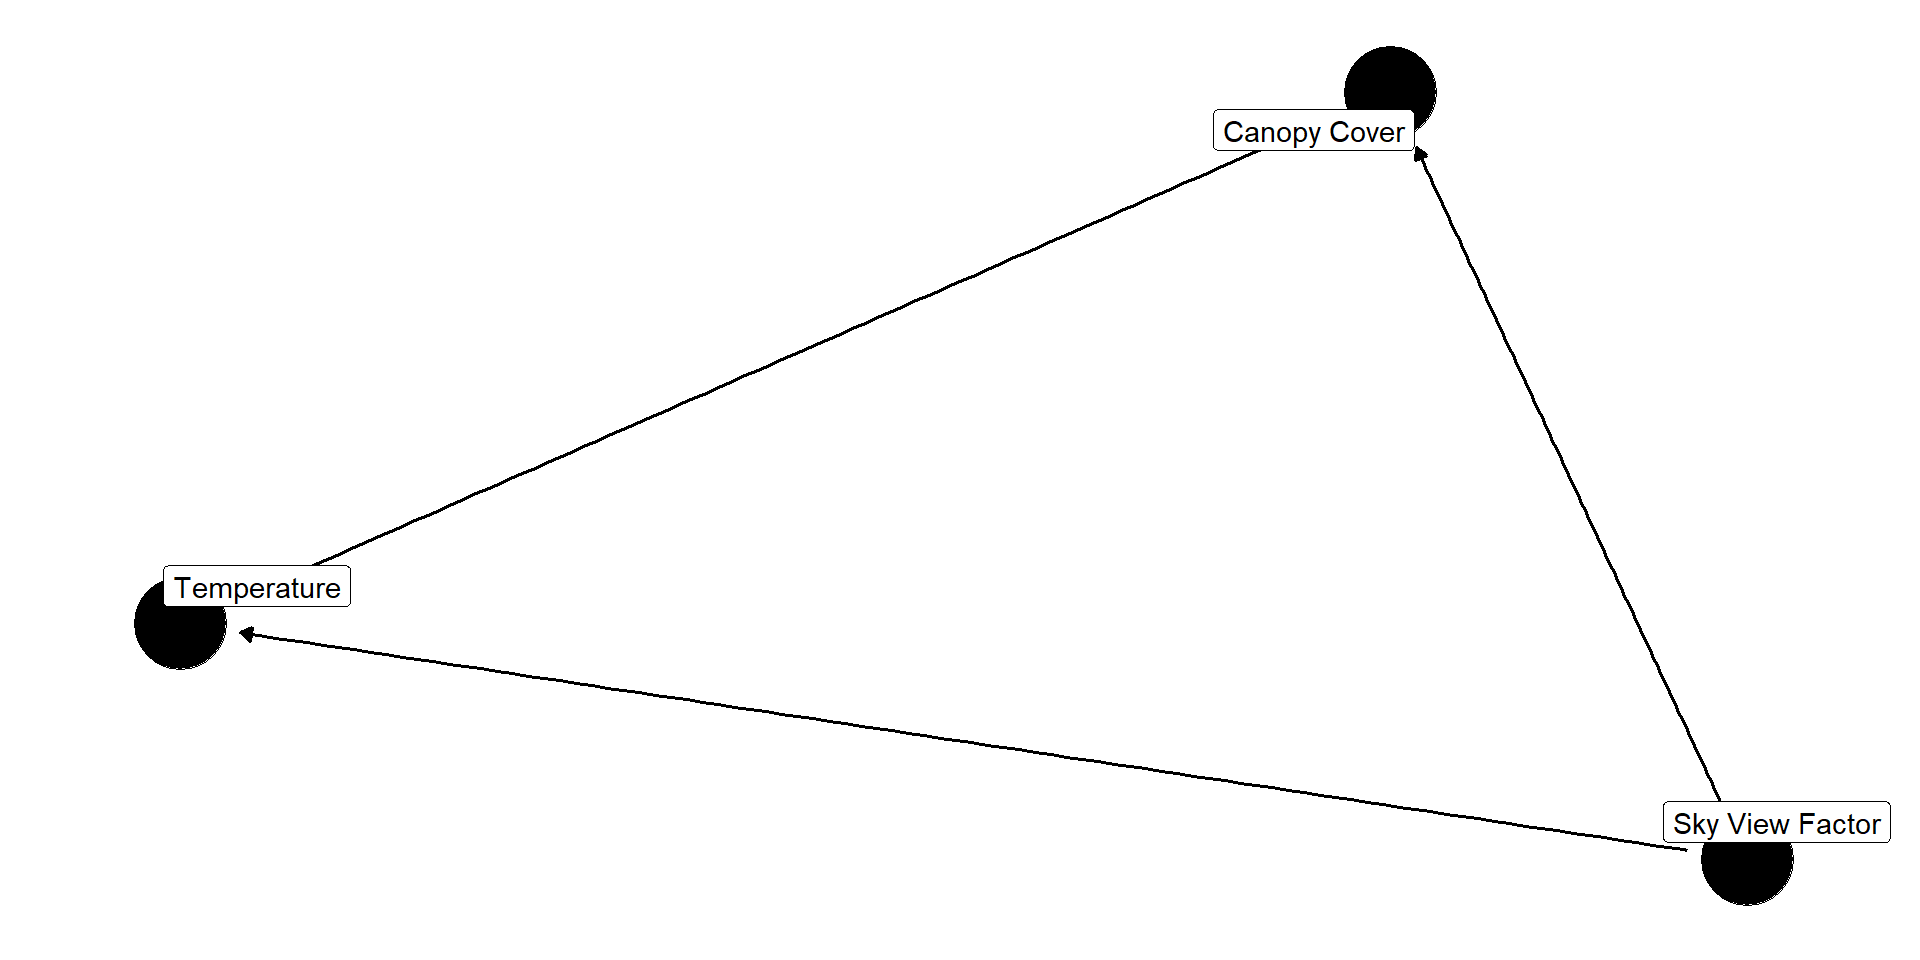
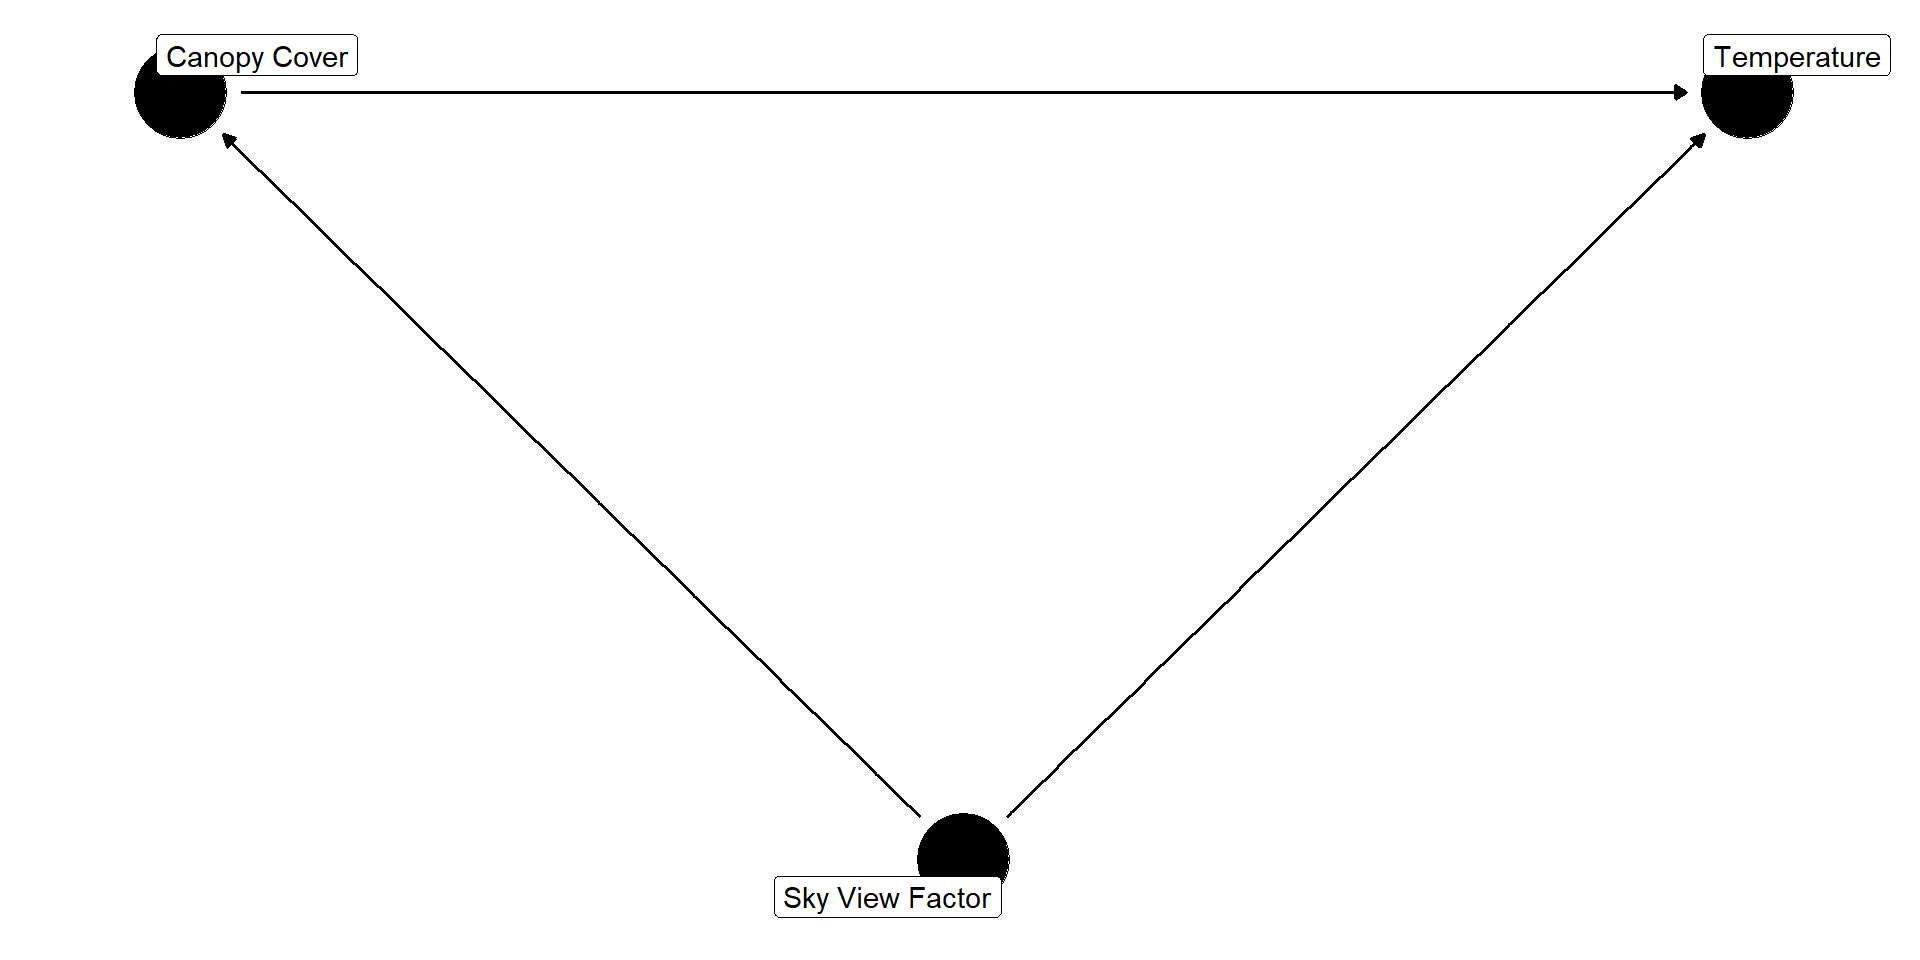
deploy: a4d5eee5e832c82f24a0478a4f8dce21d9ddd836

diff --git a/docs/index.html b/docs/index.html
@@ -607,11 +607,13 @@
 <span id="cb1-8"><a href="#cb1-8"></a>    <span class="st">"canopy"</span> <span class="ot">=</span> <span class="st">"Canopy Cover"</span>,</span>
 <span id="cb1-9"><a href="#cb1-9"></a>    <span class="st">"SVF"</span> <span class="ot">=</span> <span class="st">"Sky View Factor"</span></span>
 <span id="cb1-10"><a href="#cb1-10"></a>  ),</span>
-<span id="cb1-11"><a href="#cb1-11"></a>  <span class="at">exposure =</span> <span class="st">"canopy"</span>,</span>
-<span id="cb1-12"><a href="#cb1-12"></a>  <span class="at">outcome =</span> <span class="st">"temp"</span></span>
-<span id="cb1-13"><a href="#cb1-13"></a>)</span>
-<span id="cb1-14"><a href="#cb1-14"></a></span>
-<span id="cb1-15"><a href="#cb1-15"></a><span class="fu">ggdag</span>(fork_dag, <span class="at">text =</span> <span class="cn">FALSE</span>, <span class="at">use_labels =</span> <span class="st">"label"</span>) <span class="sc">+</span> <span class="fu">theme_dag</span>()</span></code><button title="Copy to Clipboard" class="code-copy-button"><i class="bi"></i></button></pre></div>
+<span id="cb1-11"><a href="#cb1-11"></a>  <span class="at">coords =</span> <span class="fu">list</span>(<span class="at">x =</span> <span class="fu">c</span>(<span class="at">canopy =</span> <span class="sc">-</span><span class="dv">1</span>, <span class="at">SVF =</span> <span class="dv">0</span>, <span class="at">temp =</span> <span class="dv">1</span>), </span>
+<span id="cb1-12"><a href="#cb1-12"></a>                <span class="at">y =</span> <span class="fu">c</span>(<span class="at">canopy =</span> <span class="dv">1</span>, <span class="at">SVF =</span> <span class="dv">0</span>, <span class="at">temp =</span> <span class="dv">1</span>)),</span>
+<span id="cb1-13"><a href="#cb1-13"></a>  <span class="at">exposure =</span> <span class="st">"canopy"</span>,</span>
+<span id="cb1-14"><a href="#cb1-14"></a>  <span class="at">outcome =</span> <span class="st">"temp"</span></span>
+<span id="cb1-15"><a href="#cb1-15"></a>)</span>
+<span id="cb1-16"><a href="#cb1-16"></a></span>
+<span id="cb1-17"><a href="#cb1-17"></a><span class="fu">ggdag</span>(fork_dag, <span class="at">text =</span> <span class="cn">FALSE</span>, <span class="at">use_labels =</span> <span class="st">"label"</span>) <span class="sc">+</span> <span class="fu">theme_dag</span>()</span></code><button title="Copy to Clipboard" class="code-copy-button"><i class="bi"></i></button></pre></div>
 <div class="cell-output-display">
 <p><img data-src="index_files/figure-revealjs/fork-dag-1.png" width="960"></p>
 </div>
@@ -720,6 +722,33 @@
 </section>
 <section id="confounders-descendant" class="slide level2 scrollable">
 <h2>Confounders: descendant</h2>
+<div class="columns">
+<div class="column" style="width:60%;">
+<ul>
+<li><p>descendant can be different depending on what it is attached to</p></li>
+<li><p>X and Y are causally associated through Z</p></li>
+<li><p>A holds information about Z</p></li>
+<li><p>if stratified by A, X and Y are less associated</p></li>
+</ul>
+</div><div class="column" style="width:40%;">
+<div class="quarto-figure quarto-figure-center">
+<figure>
+<p><img data-src="presentation_imgs/descendant.png"></p>
+<p></p><figcaption>Statistical Rethinking, Lecture 5</figcaption><p></p>
+</figure>
+</div>
+</div>
+</div>
+<div class="cell">
+<div class="cell-output-display">
+<p><img data-src="index_files/figure-revealjs/descendant-dag-1.png" width="960"></p>
+</div>
+</div>
+<ul>
+<li>we know from before that we shouldn’t add proportion of native trees to our model if we want to test the effect of land use type on bird behaviour because its a pipe</li>
+<li>because proportion of invasive trees is a descendant, adding it to the model will have the same effect but weaker</li>
+<li>descendants can be used as proxies for our variables of interest</li>
+</ul>
 </section>
 <section id="adjusting-your-models-for-confounders" class="slide level2">
 <h2>Adjusting your models for confounders</h2>
@@ -741,10 +770,6 @@
 </ul></li>
 </ol>
 </section>
-<section id="dagitty.net---crowd-sourced-example" class="slide level2">
-<h2>dagitty.net - crowd-sourced example</h2>
-
-<img data-src="presentation_imgs/dagitty.png" class="r-stretch"></section>
 <section id="table-2-fallacy" class="slide level2">
 <h2>Table 2 fallacy</h2>
 <ul>
@@ -757,6 +782,10 @@
 <li><a href="https://pubmed.ncbi.nlm.nih.gov/23371353/">The table 2 fallacy: presenting and interpreting confounder and modifier coefficients</a></li>
 </ul>
 </section>
+<section id="dagitty.net---crowd-sourced-example" class="slide level2">
+<h2>dagitty.net - crowd-sourced example</h2>
+
+<img data-src="presentation_imgs/dagitty.png" class="r-stretch"></section>
 <section id="resources" class="slide level2 scrollable">
 <h2>Resources</h2>
 <ul>
